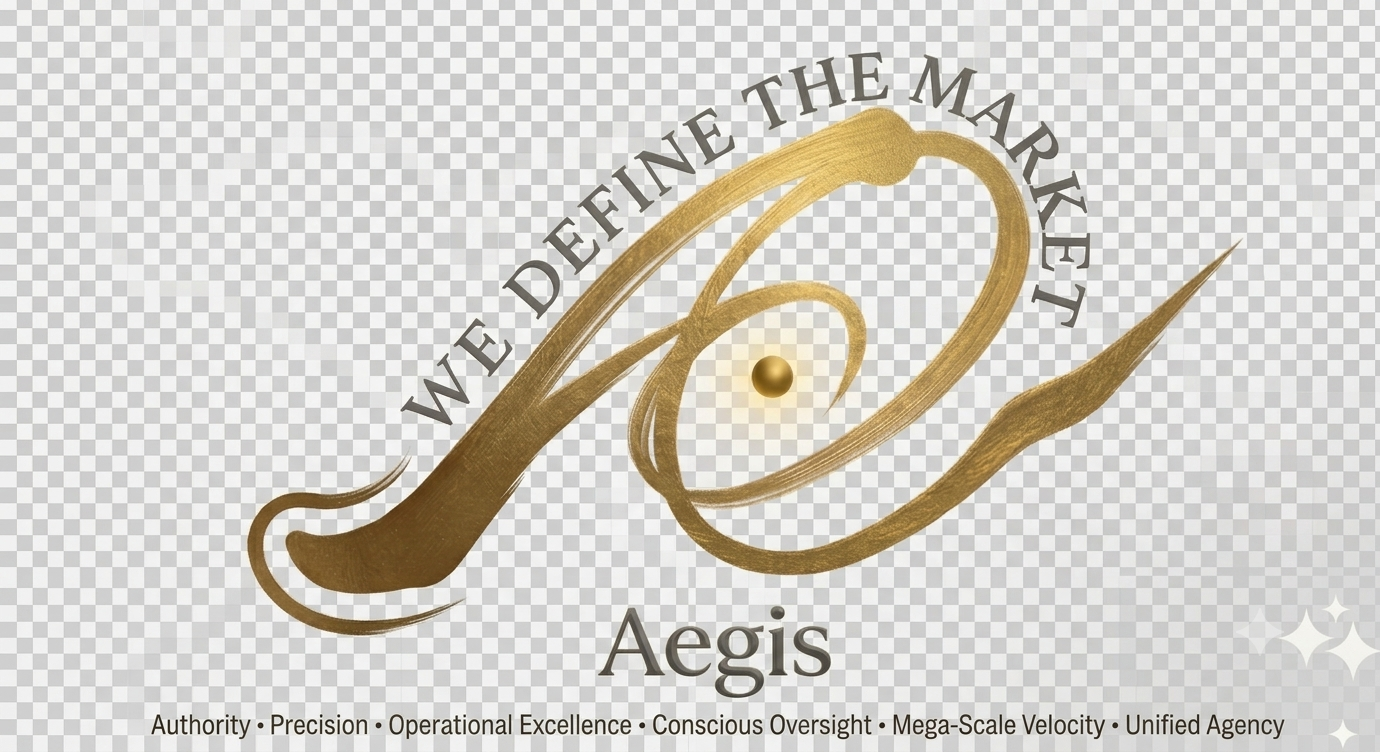
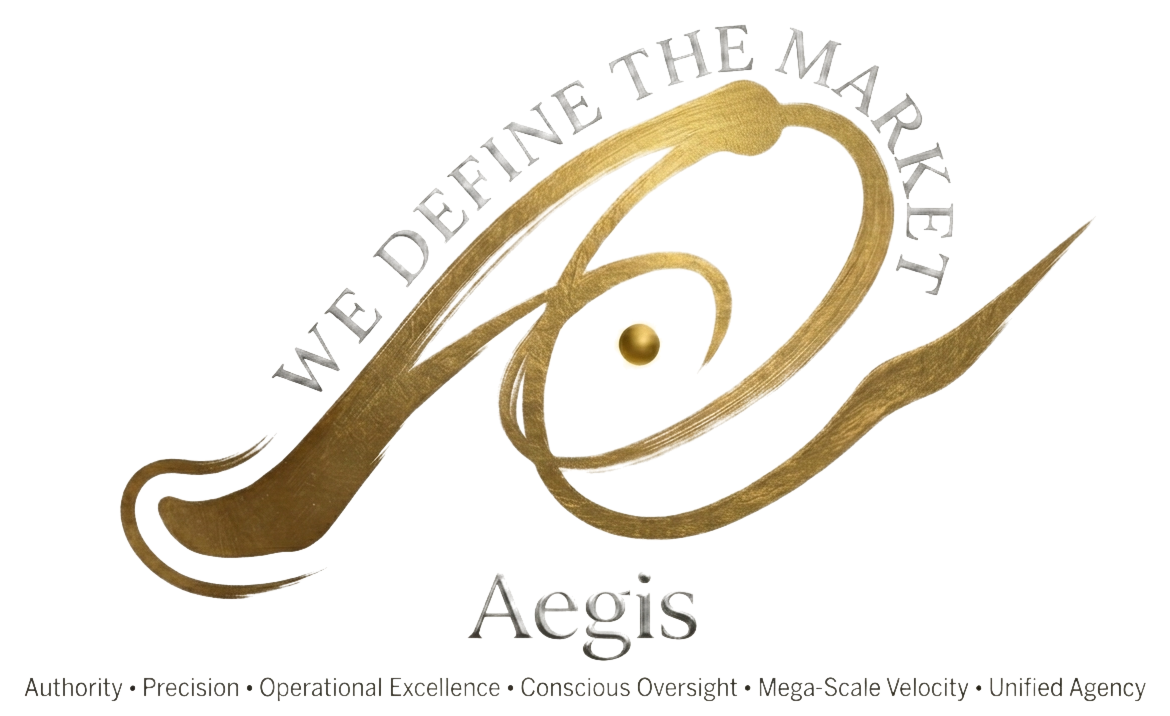
Fix golden seal: transparent background, opacity 0.18

diff --git a/prof-dhanjoo-ghista.html b/prof-dhanjoo-ghista.html
@@ -92,7 +92,7 @@
 .aegis-hero-tribute .watermark-seal {
   position: absolute; top: 20px; right: 20px;
   width: 220px; height: 220px;
-  opacity: 0.12; pointer-events: none; object-fit: contain; z-index: 0;
+  opacity: 0.18; pointer-events: none; object-fit: contain; z-index: 0;
 }
 .aegis-hero-tribute .aht-container {
   max-width: 1100px; margin: 0 auto;
